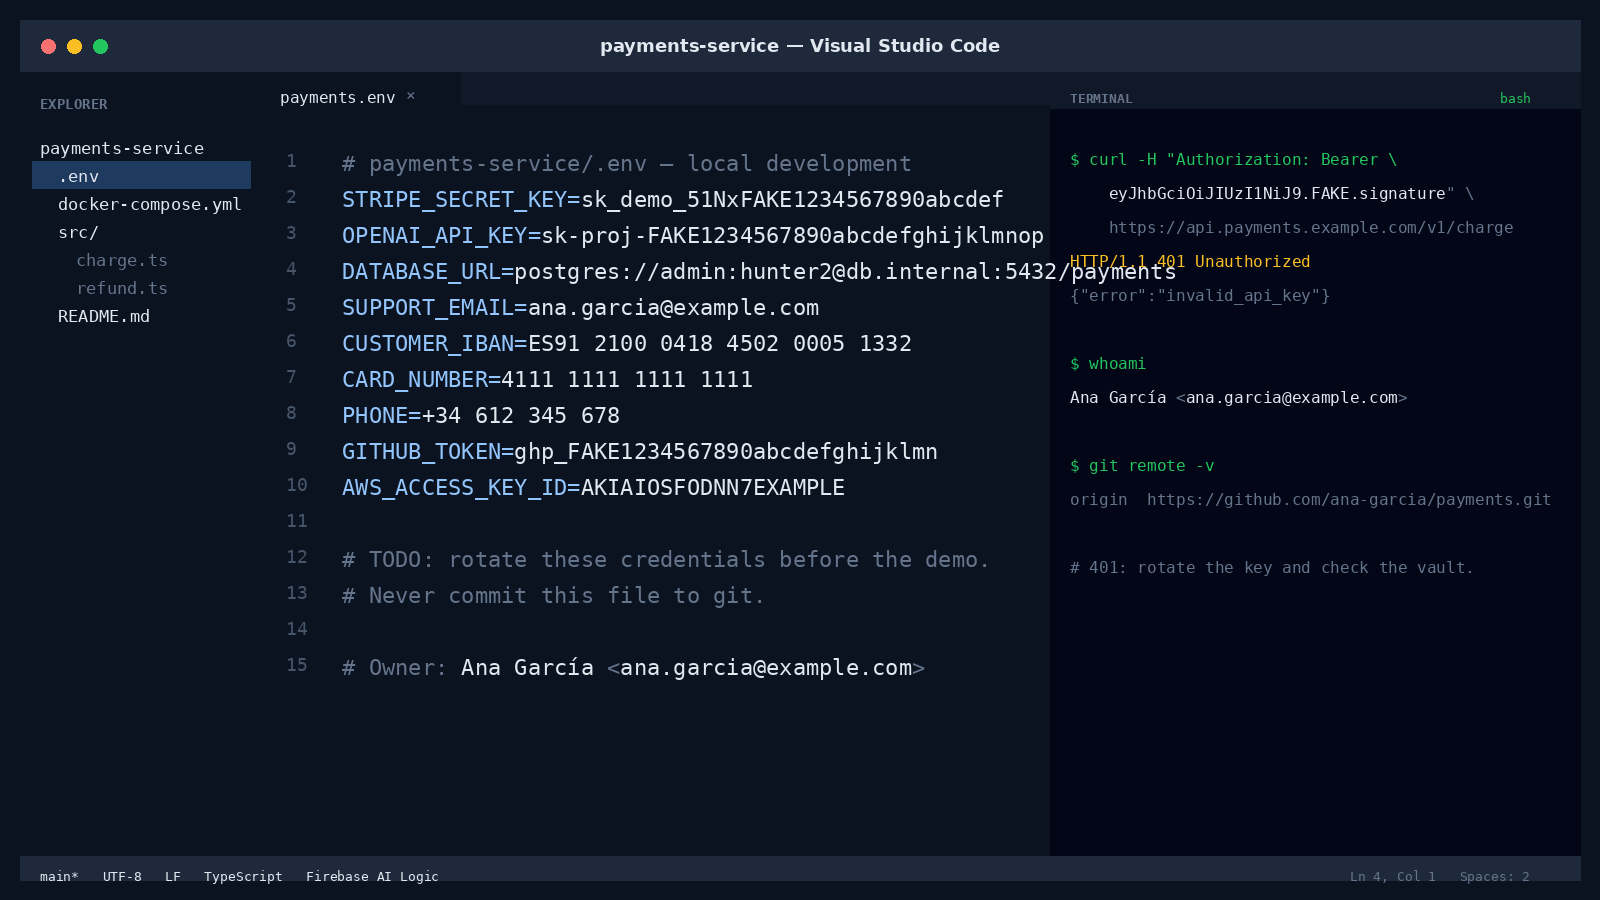
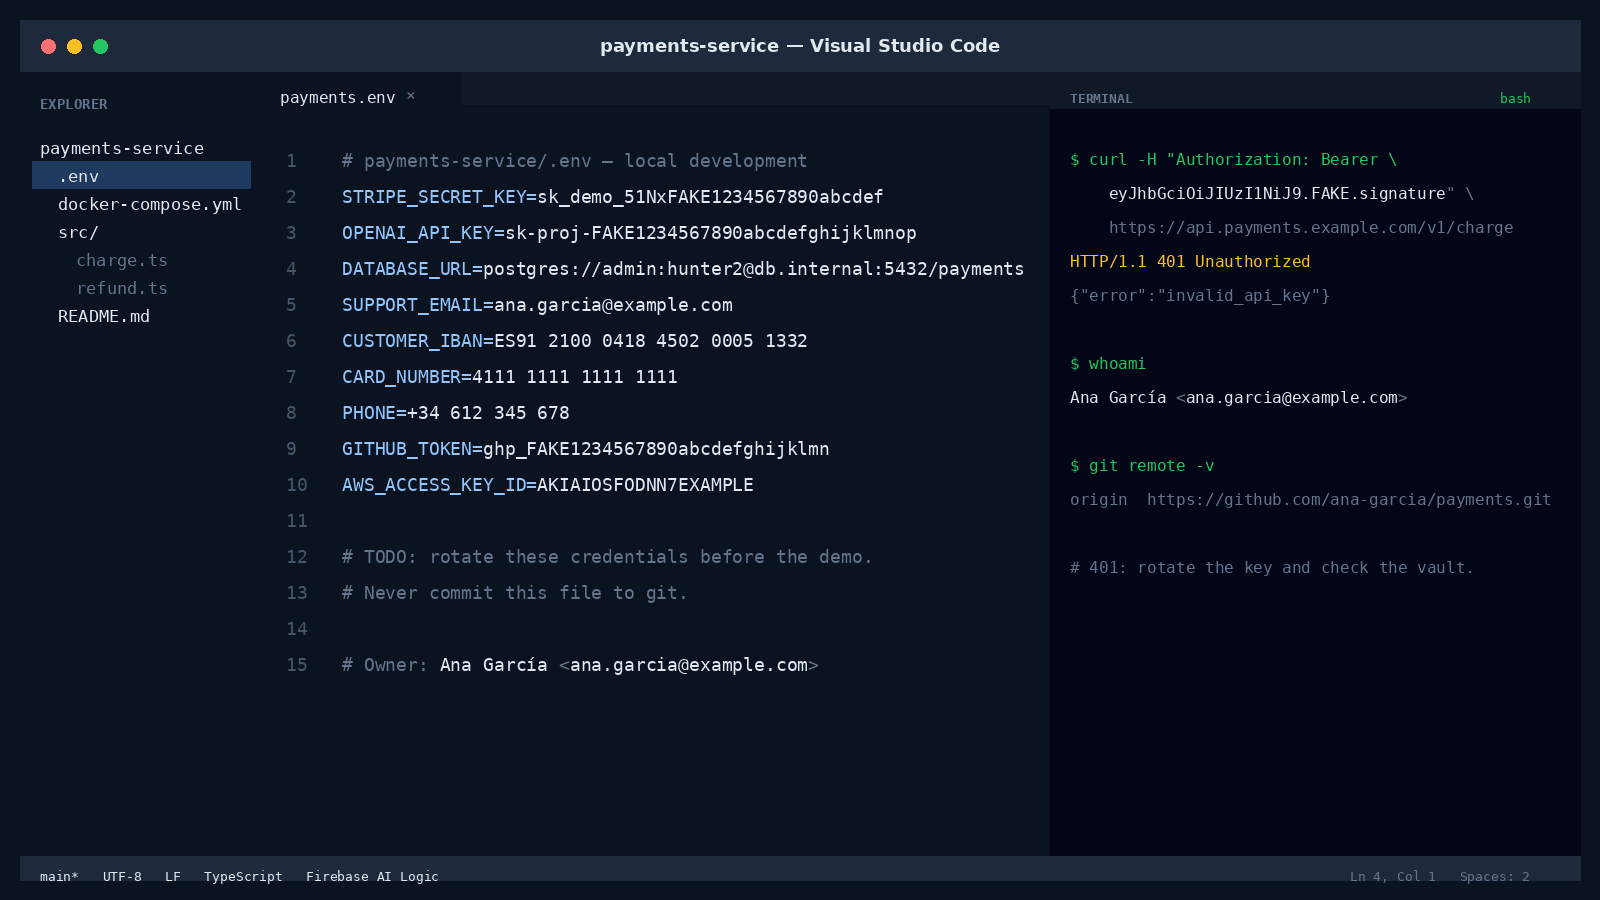
Fit the long .env line inside the editor panel

diff --git a/samples.js b/samples.js
@@ -7,90 +7,90 @@ export const MOCK_SAMPLES = {
       {
         "value": "sk_demo_51NxFAKE1234567890abcdef",
         "type": "API key",
-        "x": 0.36281,
+        "x": 0.33574,
         "y": 0.20444,
-        "w": 0.265,
-        "h": 0.03111
+        "w": 0.21688,
+        "h": 0.02667
       },
       {
         "value": "sk-proj-FAKE1234567890abcdefghijklmnop",
         "type": "API key",
-        "x": 0.33797,
+        "x": 0.31541,
         "y": 0.24444,
-        "w": 0.31469,
-        "h": 0.03111
+        "w": 0.25754,
+        "h": 0.02667
       },
       {
         "value": "postgres://admin:hunter2@db.internal:5432/payments",
         "type": "database URL",
-        "x": 0.32141,
+        "x": 0.30186,
         "y": 0.28444,
-        "w": 0.41406,
-        "h": 0.03111
+        "w": 0.33887,
+        "h": 0.02667
       },
       {
         "value": "ana.garcia@example.com",
         "type": "email",
-        "x": 0.32969,
+        "x": 0.30863,
         "y": 0.32444,
-        "w": 0.18219,
-        "h": 0.03111
+        "w": 0.1491,
+        "h": 0.02667
       },
       {
         "value": "ES91 2100 0418 4502 0005 1332",
         "type": "IBAN",
-        "x": 0.32969,
+        "x": 0.30863,
         "y": 0.36444,
-        "w": 0.24016,
-        "h": 0.03111
+        "w": 0.19654,
+        "h": 0.02667
       },
       {
         "value": "4111 1111 1111 1111",
         "type": "credit card",
-        "x": 0.31312,
+        "x": 0.29508,
         "y": 0.40444,
-        "w": 0.15734,
-        "h": 0.03111
+        "w": 0.12877,
+        "h": 0.02667
       },
       {
         "value": "+34 612 345 678",
         "type": "phone",
-        "x": 0.26344,
+        "x": 0.25441,
         "y": 0.44444,
-        "w": 0.12422,
-        "h": 0.03111
+        "w": 0.10166,
+        "h": 0.02667
       },
       {
         "value": "ghp_FAKE1234567890abcdefghijklmn",
         "type": "GitHub token",
-        "x": 0.32141,
+        "x": 0.30186,
         "y": 0.48444,
-        "w": 0.265,
-        "h": 0.03111
+        "w": 0.21688,
+        "h": 0.02667
       },
       {
         "value": "AKIAIOSFODNN7EXAMPLE",
         "type": "AWS access key",
-        "x": 0.36281,
+        "x": 0.33574,
         "y": 0.52444,
-        "w": 0.16562,
-        "h": 0.03111
+        "w": 0.13555,
+        "h": 0.02667
       },
       {
         "value": "Ana García",
         "type": "name",
-        "x": 0.28828,
+        "x": 0.27475,
         "y": 0.72444,
-        "w": 0.08281,
-        "h": 0.03111
+        "w": 0.06777,
+        "h": 0.02667
       },
       {
         "value": "ana.garcia@example.com",
         "type": "email",
-        "x": 0.38766,
+        "x": 0.35607,
         "y": 0.72444,
-        "w": 0.18219,
-        "h": 0.03111
+        "w": 0.1491,
+        "h": 0.02667
       },
       {
         "value": "eyJhbGciOiJIUzI1NiJ9.FAKE.signature",

diff --git a/make_sample.py b/make_sample.py
@@ -68,7 +68,7 @@ SAMPLES = {
         ],
         "status_left": "main*   UTF-8   LF   TypeScript   Firebase AI Logic",
         "status_right": "Ln 4, Col 1   Spaces: 2",
-        "editor_size": 22,
+        "editor_size": 18,
         "terminal_size": 16,
         "editor": [
             [seg("# payments-service/.env — local development", MUTED)],
